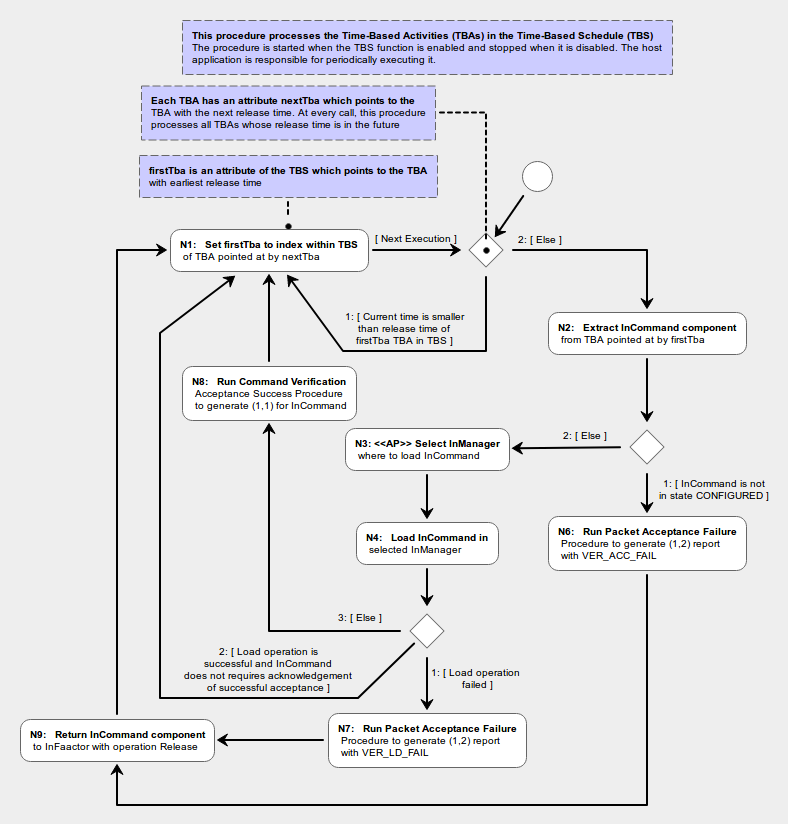
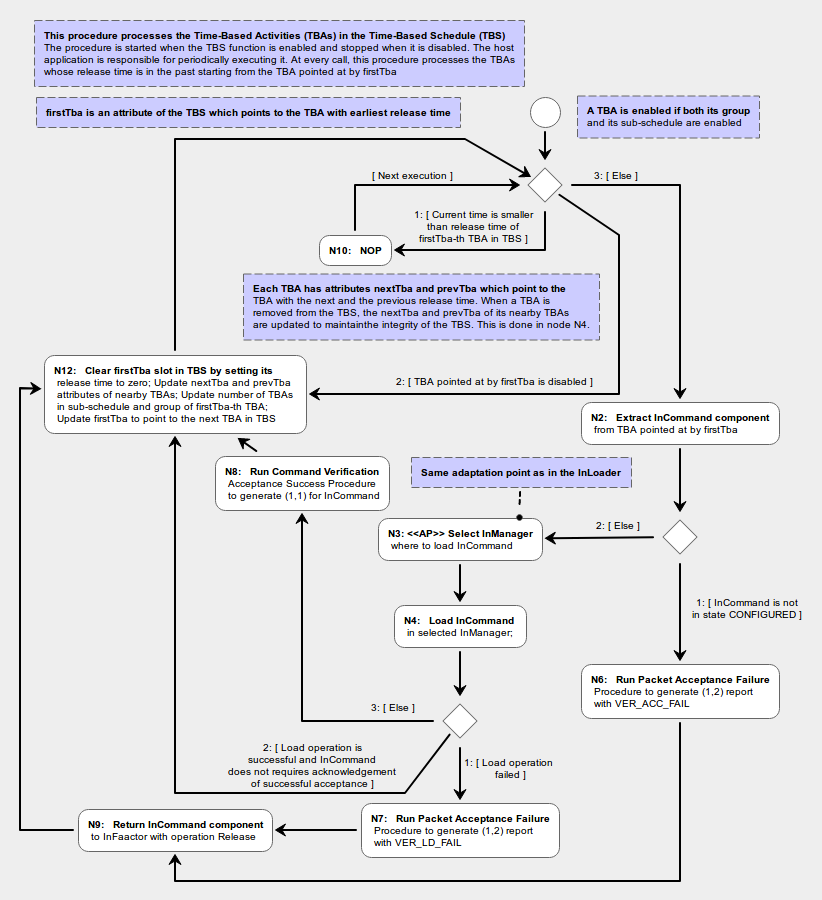
On-going specification of service 11

Changed region(s): [[0.0, 0.0, 0.9746, 1.0], [0.7919, 0.3034, 0.8223, 0.3337]]

diff --git a/doc/pus/PusExtension.tex b/doc/pus/PusExtension.tex
@@ -1173,7 +1173,7 @@ The service type of the Time-Based Scheduling Service is 11. The PUS Extension o
 \subsection{Time-Based Schedule (TBS)}}
 The Time-Based Scheduling Service controls the Time-Based Schedule Execution Function. This function allows time-tagged requests to be pre-loaded in an application and to be released when their time of execution comes due. The pre-loaded requests are held in the \textit{Time-Based Schedule} or TBS. The TBS consists of a list of up to SCD\_N\_TBA \textit{Time-Based Activities} or TBAs. Within the TBS, each TBA is identified by an integer in the range 1 to SCD\_N\_TBA. Each TBA is defined by the attributes listed in table \ref{tab:tbaAtt}. 
 
-The entries in the TBS are arranged in a random order which is determined by the order in which the TBAs are loaded in the application. Each TBA has a pointer to the "next TBA" (attribute \texttt{nextTba}). If B is the next TBA of A, then this means that the release time of B is later than the release time of A and that there is no other entry in the TBS with a release time between A and B. This attribute allows the TBAs to be navigated in the order in which they are due for release. Additionally, and also in order to facilitate the scanning of the TBAs according to the their order of release time, variable \texttt{firstTba} is maintained. This variable points to the TBA with the earliest release time (i.e. to the first TBA which is due for execution). 
+The entries in the TBS are arranged in a random order which is determined by the order in which the TBAs are loaded in the application. The TBS is implemented as a linked list where each item knows its "successor" (attribute \texttt{nextTba}) and its "predecessor" (attribute \texttt{prevTba}). If B is the successor TBA of A, then this means that the release time of B is later than the release time of A and that there is no other entry in the TBS with a release time between A and B. A similarl definition applies to the predecessor TBA. These attributes allow the TBAs to be navigated in the order in which they are due for release. Additionally, and also in order to facilitate the scanning of the TBAs according to the their order of release time, variable \texttt{firstTba} is maintained. This variable points to the TBA with the earliest release time (i.e. to the first TBA which is due for execution). 
 
 Initially, the TBS is empty. A slot in the TBS is empty if its release time is equal to zero. The TBS is filled up through (11,4) commands. Each such command loads a TBA in the TBS. The TBS can be reset (all its entries are deleted) with command (11,3). Individual TBAs can be deleted using command (11,4) and deletion by filtering criterium can be done with command (11,5).
 
@@ -1206,7 +1206,7 @@ The time-based schedule execution function can be enabled and disabled through c
 \subsection{Sub-Schedules}
 Within the TBS, up to SCD\_N\_SUB\_TBS \textit{sub-schedules} may be defined. Each sub-schedule is identified by an integer in the range 1 to SCD\_N\_SUB\_TBS. The sub-schedule 1 is the default sub-schedule. Thus, an application which does not need sub-schedules should set SCD\_N\_SUB\_TBS to 1. To each TBA, the attribute \texttt{subSchedId} is associated which identifies the sub-schedule to which the TBA belongs.
 
-In the current version of the PUS Extension of the CORDET Framework, only the default sub-schedule is supported and SCD\_N\_SUB\_TBS must be kept equal to 1.
+A sub-schedule has two attributes: flag \texttt{isSubSchedEnabled} which determines whether the sub-schedule is enabled and integer \texttt{nOfTbaInSubSched} which holds the number of TBAs in the sub-schedule. In [PS-SP], sub-schedules are created and deleted dynamically. Sub-schedule S is created when a command (11,4) asks for one or more TBAs to be inserted in the sub-schedule S. The sub-schedule is deleted when the last of its TBAs is deleted from the TBS (because its release time has been reached). In the PUS Extension, the data structures for the sub-schedules are all statically defined and therefore the creation status of a sub-schedule is determined by the value of \texttt{nOfTbaInSubSched}: the sub-schedule is deemed to be created when the attribute is greater than zero (the sub-schedule is not empty).
 
 
 \subsection{Groups}
